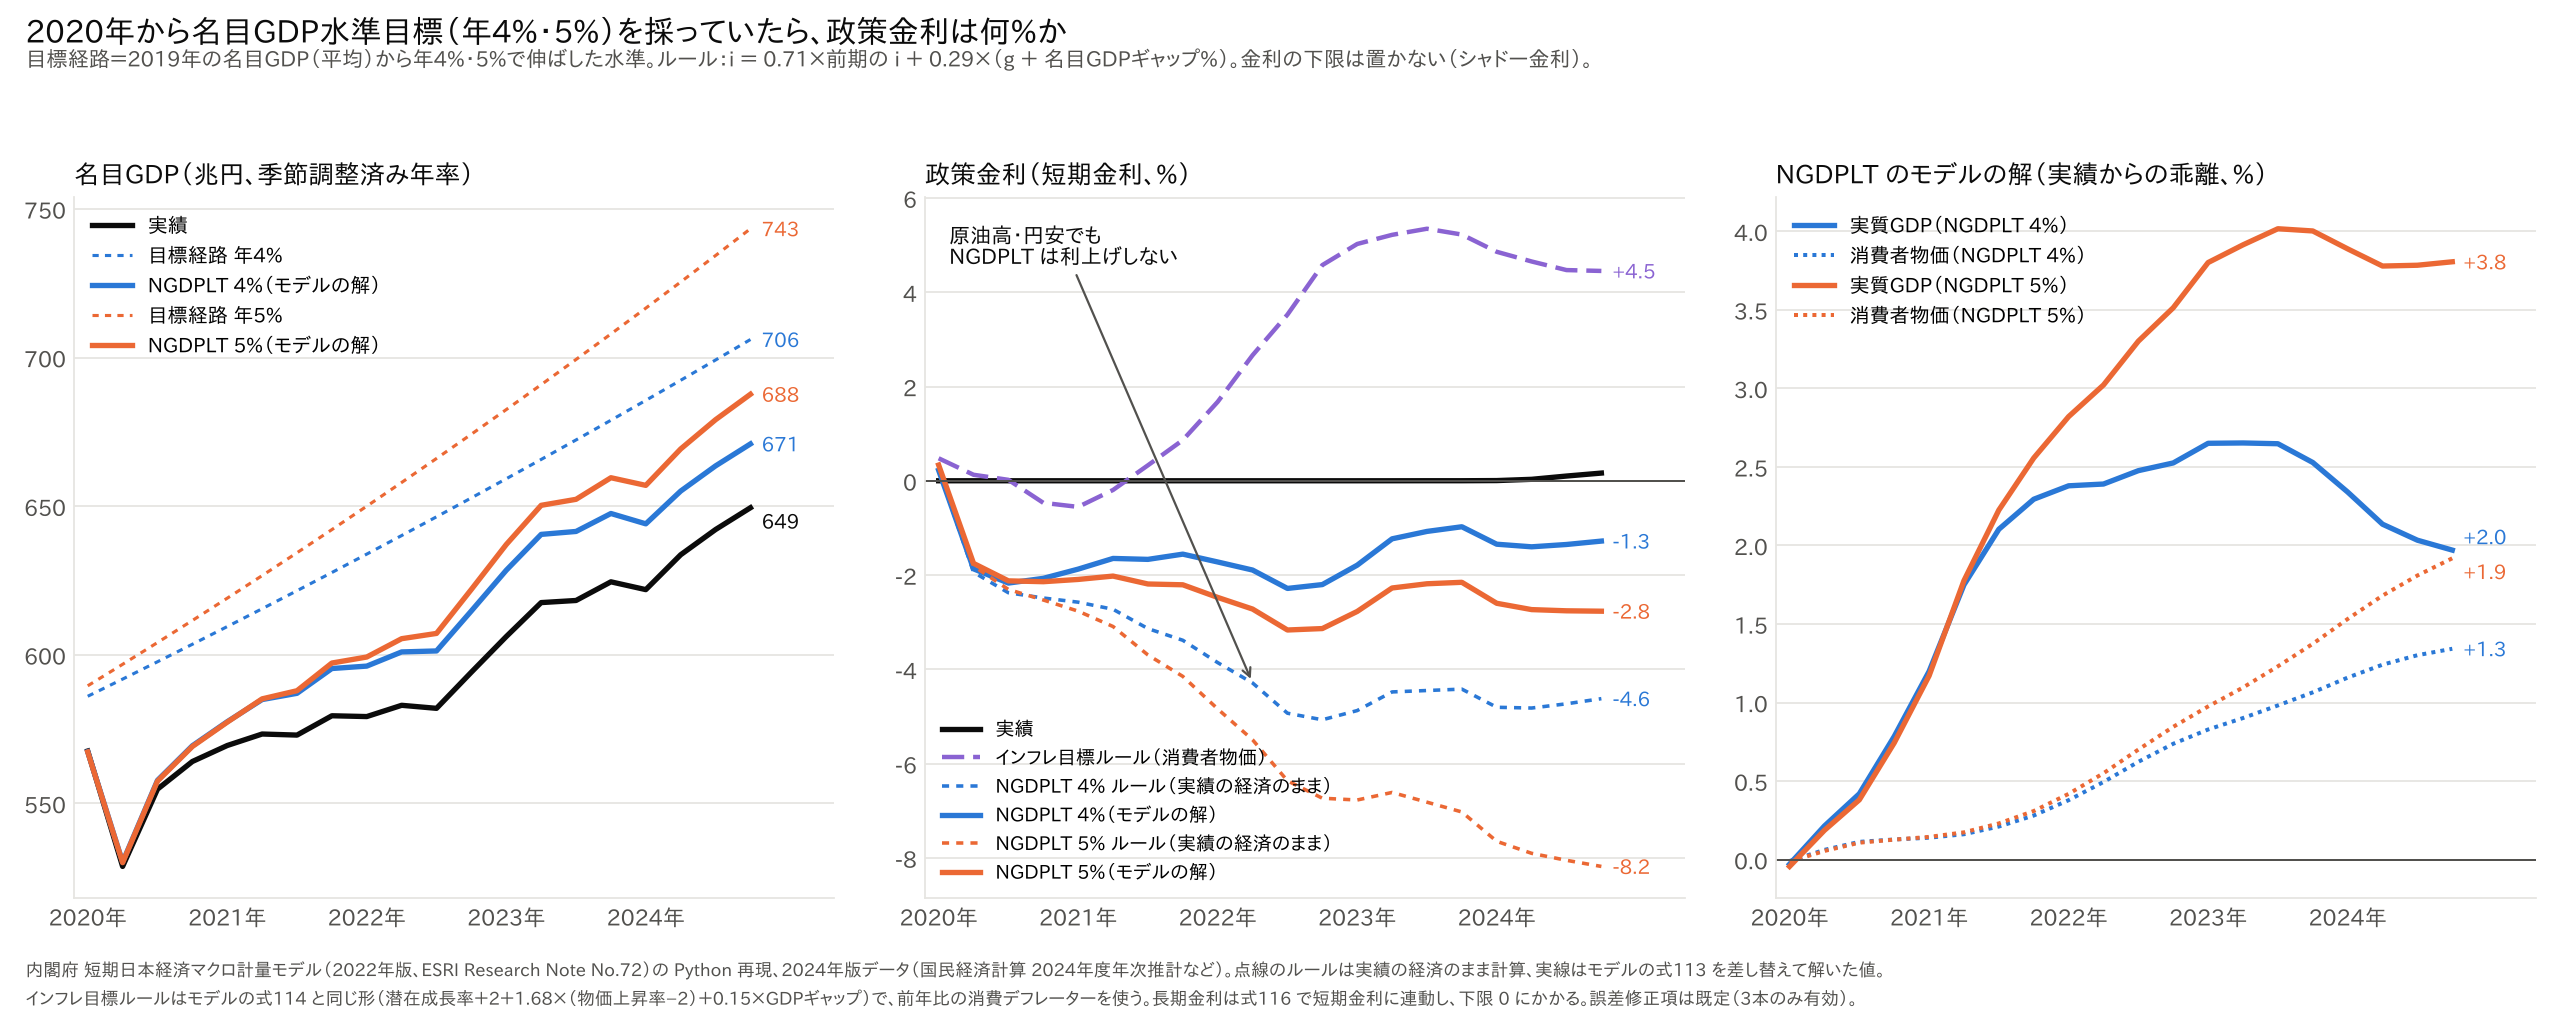
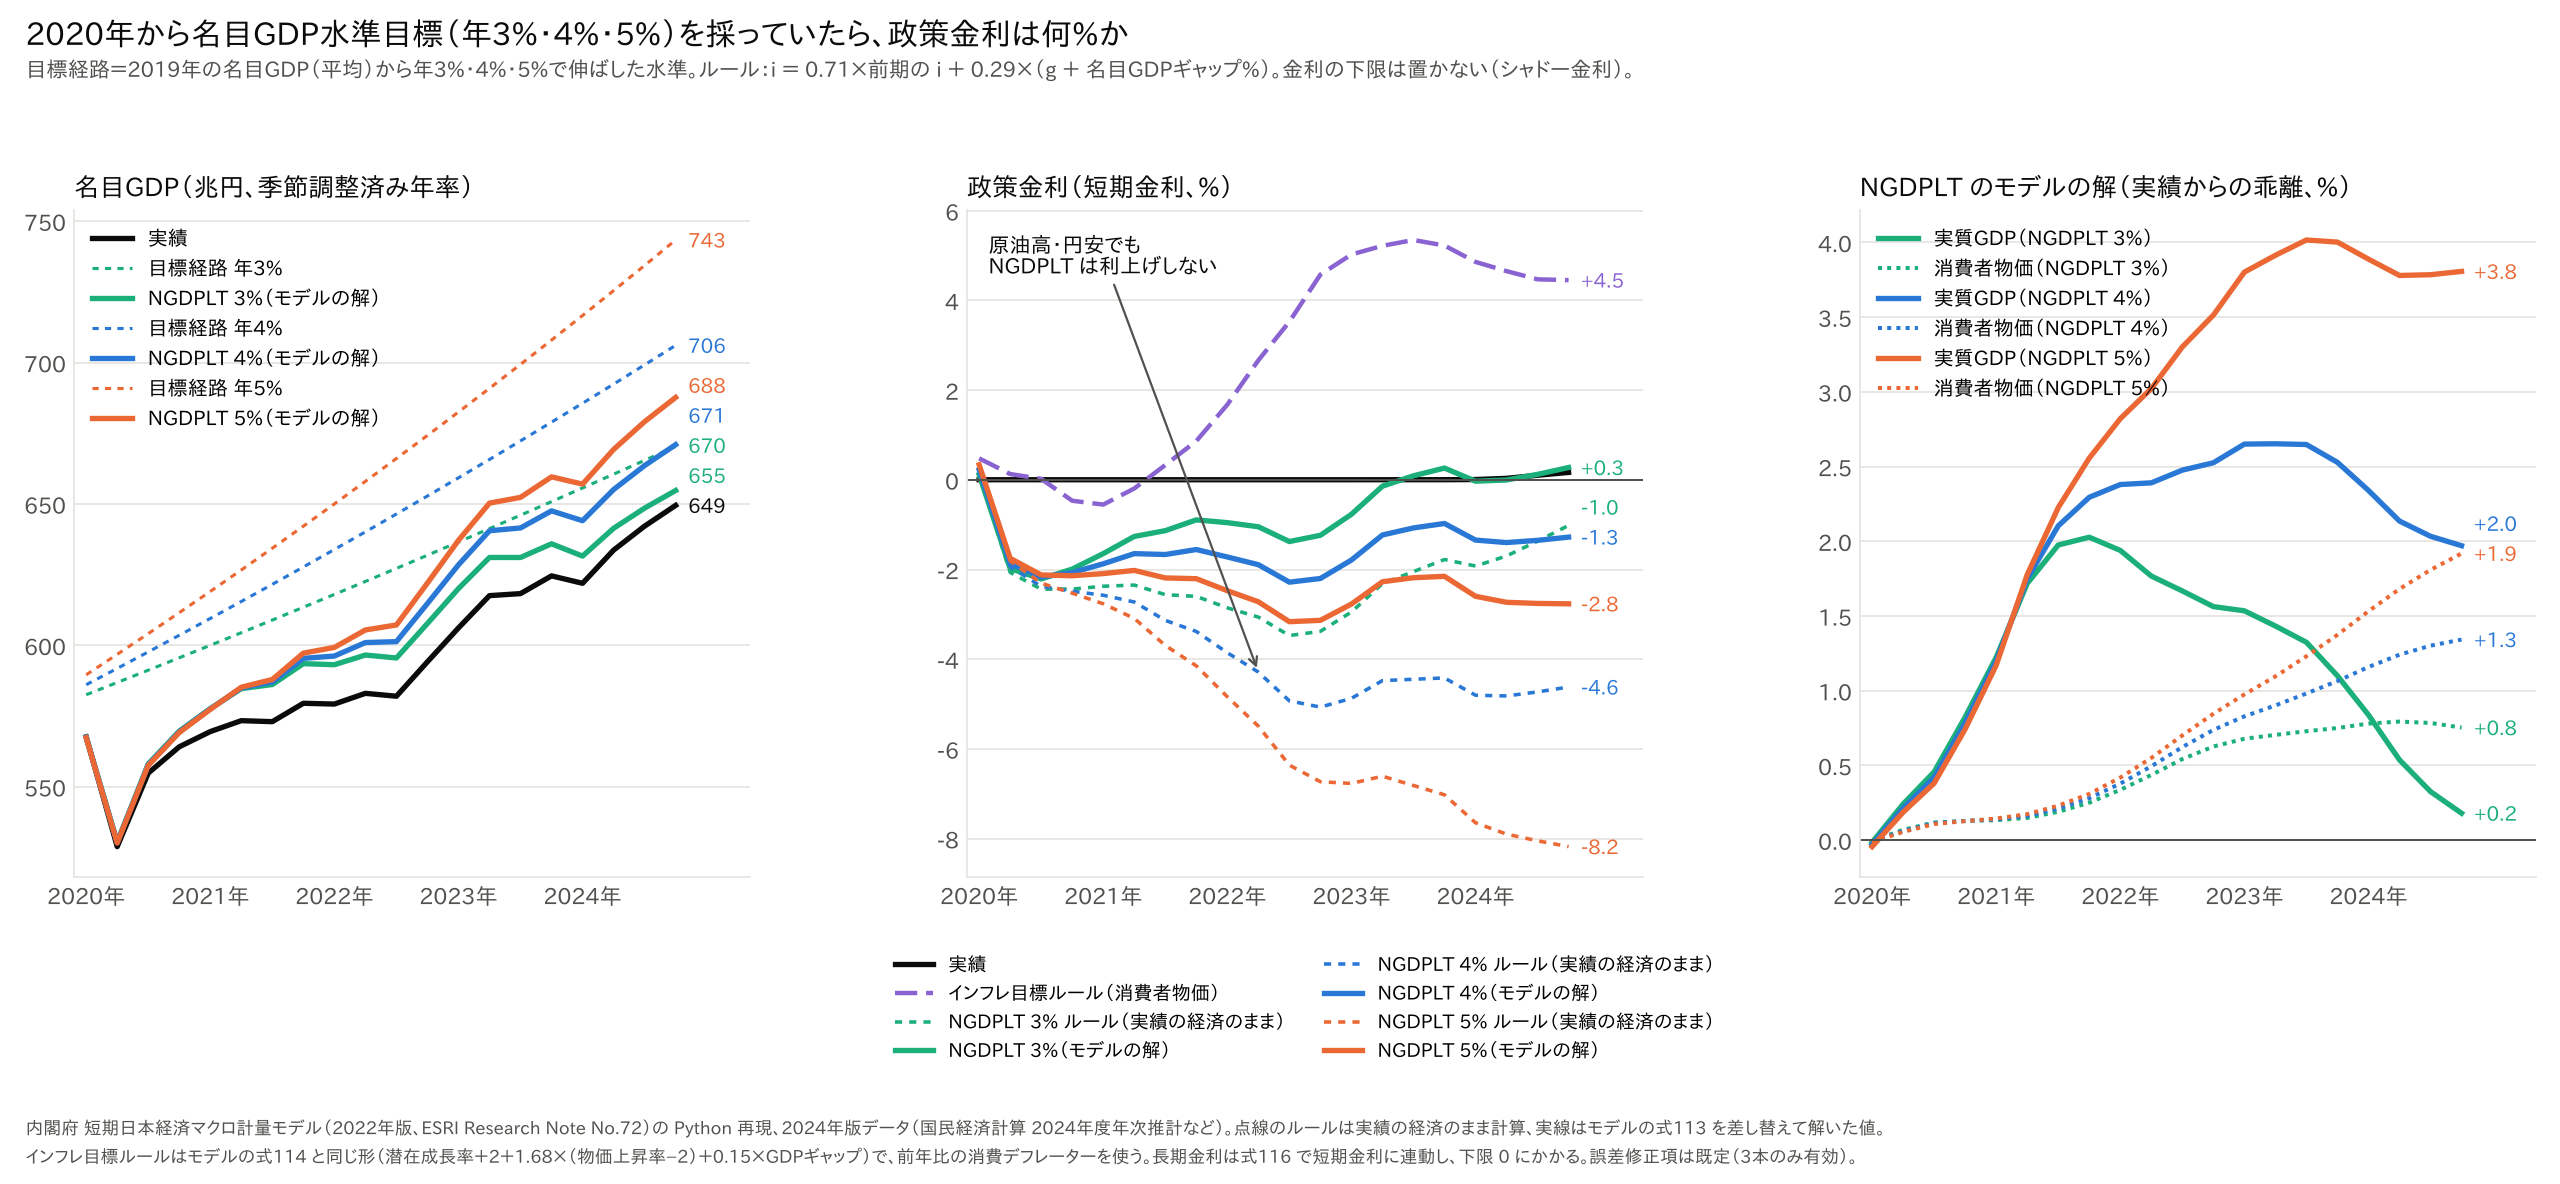
名目GDP水準目標に年3%の目標を追加
Claude-Session: https://claude.ai/code/session_013ePjEtRrzquBdW4qa3Y9LD

diff --git a/src/plot_ngdplt.py b/src/plot_ngdplt.py
@@ -1,6 +1,6 @@
 """名目GDP水準目標（NGDPLT）シナリオ（experiment_ngdplt.py の結果）の図.
 
-左: 名目GDP（実績、目標経路 4%・5%、NGDPLT をモデルに組み込んだ解）
+左: 名目GDP（実績、目標経路 3%・4%・5%、NGDPLT をモデルに組み込んだ解）
 中: 政策金利（実績、ルールが示すシャドー金利、モデルに組み込んだ解、比較のインフレ目標ルール）
 右: モデルに組み込んだ解の実質GDP・消費デフレーター（実績からの乖離）
 
@@ -25,18 +25,30 @@ def main() -> None:
     d = pd.read_csv(OUT / "experiment_ngdplt.csv", index_col=0)
     plt.rcParams.update({"font.family": FONT, "font.size": 10, "axes.edgecolor": GRID, "axes.labelcolor": INK2,
                          "xtick.color": INK2, "ytick.color": INK2, "axes.unicode_minus": False})
-    fig, axes = plt.subplots(1, 3, figsize=(16, 6.4))
+    fig, axes = plt.subplots(1, 3, figsize=(16, 7.4))
     fig.patch.set_facecolor("white")
     x = np.arange(len(d))
 
+    pending = {}  # 軸ごとの端のラベル（重ならないよう最後にまとめて置く）
+
     def end_label(ax, y, c, dy=0, fmt="{:+.1f}"):
-        ax.annotate(fmt.format(y.iloc[-1]), (x[-1], y.iloc[-1]), xytext=(5, dy), textcoords="offset points",
-                    color=c, fontsize=9, va="center")
+        pending.setdefault(ax, []).append((float(y.iloc[-1]), fmt.format(y.iloc[-1]), c))
+
+    def place_labels():
+        for ax, items in pending.items():
+            lo, hi = ax.get_ylim()
+            gap = 0.045 * (hi - lo)
+            items = sorted(items)
+            ys = [v for v, _, _ in items]
+            for k in range(1, len(ys)):
+                ys[k] = max(ys[k], ys[k - 1] + gap)
+            for (v, t, c), yy in zip(items, ys):
+                ax.annotate(t, (x[-1], v), xytext=(x[-1] + 0.4, yy), textcoords="data", color=c, fontsize=9, va="center")
 
     # 左: 名目GDP
     ax = axes[0]
     ax.plot(x, d["名目GDP 実績（兆円）"], color=INK, lw=2.4, label="実績")
-    for g, c in (("4", BLUE), ("5", ORANGE)):
+    for g, c in (("3", AQUA), ("4", BLUE), ("5", ORANGE)):
         ax.plot(x, d[f"名目GDP 目標{g}%（兆円）"], color=c, lw=1.4, ls=(0, (2, 2)), label=f"目標経路 年{g}%")
         ax.plot(x, d[f"モデル NGDPLT{g}% 名目GDP（兆円）"], color=c, lw=2.4, label=f"NGDPLT {g}%（モデルの解）")
         end_label(ax, d[f"名目GDP 目標{g}%（兆円）"], c, fmt="{:.0f}")
@@ -50,7 +62,7 @@ def main() -> None:
     ax.plot(x, d["短期金利 実績（%）"], color=INK, lw=2.4, label="実績")
     ax.plot(x, d["インフレ目標（消費デフレーター）のシャドー金利（%）"], color=VIOLET, lw=2.0, ls=(0, (5, 2)),
             label="インフレ目標ルール（消費者物価）")
-    for g, c in (("4", BLUE), ("5", ORANGE)):
+    for g, c in (("3", AQUA), ("4", BLUE), ("5", ORANGE)):
         ax.plot(x, d[f"NGDPLT{g}% φ1 シャドー金利（%）"], color=c, lw=1.6, ls=(0, (2, 2)), label=f"NGDPLT {g}% ルール（実績の経済のまま）")
         ax.plot(x, d[f"モデル NGDPLT{g}% 短期金利（%）"], color=c, lw=2.4, label=f"NGDPLT {g}%（モデルの解）")
         end_label(ax, d[f"NGDPLT{g}% φ1 シャドー金利（%）"], c)
@@ -58,23 +70,24 @@ def main() -> None:
     end_label(ax, d["インフレ目標（消費デフレーター）のシャドー金利（%）"], VIOLET)
     ax.axhline(0, color=INK2, lw=0.9)
     ax.set_title("政策金利（短期金利、%）", loc="left", fontsize=11.5, color=INK)
-    ax.legend(loc="lower left", frameon=False, fontsize=8.6)
+    ax.legend(loc="upper center", bbox_to_anchor=(0.5, -0.09), frameon=False, fontsize=8.6, ncol=2)
     i22 = list(d.index).index("2022Q2")
     ax.annotate("原油高・円安でも\nNGDPLT は利上げしない", (i22, d["NGDPLT4% φ1 シャドー金利（%）"].iloc[i22]),
                 xytext=(0.3, 4.6), fontsize=9.5, color=INK, arrowprops=dict(arrowstyle="->", color=INK2, lw=1))
 
     # 右: 実質GDP・消費デフレーター
     ax = axes[2]
-    for g, c in (("4", BLUE), ("5", ORANGE)):
+    for g, c in (("3", AQUA), ("4", BLUE), ("5", ORANGE)):
         ax.plot(x, d[f"モデル NGDPLT{g}% 実質GDP（基準解比 %）"], color=c, lw=2.4, label=f"実質GDP（NGDPLT {g}%）")
         ax.plot(x, d[f"モデル NGDPLT{g}% 消費デフレーター（基準解比 %）"], color=c, lw=1.8, ls=(0, (1, 1.3)),
                 label=f"消費者物価（NGDPLT {g}%）")
-        end_label(ax, d[f"モデル NGDPLT{g}% 実質GDP（基準解比 %）"], c, dy=6 if g == "4" else 0)
-        end_label(ax, d[f"モデル NGDPLT{g}% 消費デフレーター（基準解比 %）"], c, dy=-6 if g == "5" else 0)
+        end_label(ax, d[f"モデル NGDPLT{g}% 実質GDP（基準解比 %）"], c, dy={"3": 0, "4": 6, "5": 0}[g])
+        end_label(ax, d[f"モデル NGDPLT{g}% 消費デフレーター（基準解比 %）"], c, dy={"3": -4, "4": 0, "5": -6}[g])
     ax.axhline(0, color=INK2, lw=0.9)
     ax.set_title("NGDPLT のモデルの解（実績からの乖離、%）", loc="left", fontsize=11.5, color=INK)
     ax.legend(loc="upper left", frameon=False, fontsize=9)
 
+    place_labels()
     for ax in axes:
         ax.set_xticks(x[::4])
         ax.set_xticklabels([f"{s[:4]}年" for s in d.index[::4]])
@@ -84,16 +97,16 @@ def main() -> None:
         ax.tick_params(length=0)
         for sp in ("top", "right"):
             ax.spines[sp].set_visible(False)
-    fig.suptitle("2020年から名目GDP水準目標（年4%・5%）を採っていたら、政策金利は何%か", x=0.01, ha="left", fontsize=14,
+    fig.suptitle("2020年から名目GDP水準目標（年3%・4%・5%）を採っていたら、政策金利は何%か", x=0.01, ha="left", fontsize=14,
                  color=INK, fontweight="bold", y=0.985)
-    fig.text(0.01, 0.935, "目標経路＝2019年の名目GDP（平均）から年4%・5%で伸ばした水準。ルール：i ＝ 0.71×前期の i ＋ 0.29×（g ＋ 名目GDPギャップ%）。"
+    fig.text(0.01, 0.935, "目標経路＝2019年の名目GDP（平均）から年3%・4%・5%で伸ばした水準。ルール：i ＝ 0.71×前期の i ＋ 0.29×（g ＋ 名目GDPギャップ%）。"
              "金利の下限は置かない（シャドー金利）。", fontsize=9.5, color=INK2)
     note = ("内閣府 短期日本経済マクロ計量モデル（2022年版、ESRI Research Note No.72）の Python 再現、2024年版データ（国民経済計算 2024年度年次推計など）。"
             "点線のルールは実績の経済のまま計算、実線はモデルの式113 を差し替えて解いた値。\n"
             "インフレ目標ルールはモデルの式114 と同じ形（潜在成長率＋2＋1.68×（物価上昇率−2）＋0.15×GDPギャップ）で、前年比の消費デフレーターを使う。"
             "長期金利は式116 で短期金利に連動し、下限 0 にかかる。誤差修正項は既定（3本のみ有効）。")
     fig.text(0.01, 0.012, note, fontsize=8, color=INK2, linespacing=1.55, va="bottom")
-    fig.tight_layout(rect=(0, 0.07, 1, 0.92), w_pad=2.2)
+    fig.tight_layout(rect=(0, 0.06, 1, 0.92), w_pad=2.2)
     fig.savefig(OUT / "ngdplt.png", dpi=160, facecolor="white")
     print(OUT / "ngdplt.png")
 

diff --git a/src/experiment_ngdplt.py b/src/experiment_ngdplt.py
@@ -1,10 +1,10 @@
-"""2020年から名目GDP水準目標（NGDPLT、年4%・5%）を採っていたら、政策金利はどう推移したか.
+"""2020年から名目GDP水準目標（NGDPLT、年3%・4%・5%）を採っていたら、政策金利はどう推移したか.
 
 名目GDP水準目標は、名目GDP の「水準」を年 g% で伸びる目標経路に乗せる金融政策。
 原油高のような供給ショックでは、物価が上がる分だけ実質の落ち込みを許すので、インフレ目標のように
 物価に反応して利上げし、実質産出をさらに犠牲にすることを避けられる、とされる。
 
-データは2024年版（2020年基準SNA、2024Q4まで）。目標経路は、2019年の名目GDP の平均（2019年央）を起点に年 g% で伸ばす。
+データは2024年版（2020年基準SNA、2024Q4まで）。目標経路は、2019年の名目GDP の平均（2019年央）を起点に年 g% で伸ばす（g = 3, 4, 5）。
 
 1. ルールが示す政策金利（実績の経済のまま、フィードバックなし）
    モデルのテイラー・ルール（式114）と同じ形（前期の金利の重み 0.71）に、目標を当てはめる。成長率と物価上昇率は前年比。
@@ -38,7 +38,7 @@ from experiment_fx_passthrough import load  # noqa: E402
 OUT = ROOT / "output"
 FNAME, START, END = "model_data_v2024.csv", "2020Q1", "2024Q4"
 RHO = 0.71
-TARGETS = (4.0, 5.0)
+TARGETS = (3.0, 4.0, 5.0)
 PHIS = (1.0, 0.5)
 
 

diff --git a/README.md b/README.md
@@ -82,7 +82,7 @@ ESRI_VINTAGE=2024 python src/simulate.py                                # 論文
 | `src/check_transcription.py` | 論文の各式の係数・定数と `model.py` の機械照合 |
 | `src/experiment_fidelity.py` | 印刷どおり・別解釈・誤植修正前の式で解いた一致度（`docs/fidelity.md`、結果は `output/experiment_fidelity.csv`） |
 | `src/experiment_proxy_levels.py` | 代用系列（`HH`・`PLAND`）の水準・傾きを歪めて解き直し、乗数が変わらないことを確認（Issue #3、結果は `output/experiment_proxy_levels.csv`） |
-| `src/experiment_ngdplt.py` | 2020年から名目GDP水準目標（年4%・5%）を採っていた場合の政策金利（ルールの当てはめとモデルの解、比較のインフレ目標ルール。結果は `output/experiment_ngdplt*.csv`、図は `src/plot_ngdplt.py` → `output/ngdplt.png`） |
+| `src/experiment_ngdplt.py` | 2020年から名目GDP水準目標（年3%・4%・5%）を採っていた場合の政策金利（ルールの当てはめとモデルの解、比較のインフレ目標ルール。結果は `output/experiment_ngdplt*.csv`、図は `src/plot_ngdplt.py` → `output/ngdplt.png`） |
 | `src/experiment_rgb7_fx200.py` | 長期金利7%・ドル円200円シナリオ（円安のみ・金利のみ・両方、2024年版。結果は `output/experiment_rgb7_fx200*.csv`、図は `src/plot_rgb7_fx200.py` → `output/rgb7_fx200.png`） |
 | `src/experiment_ctax_revenue.py` | 名目GDP1%規模の消費税減税と給付金の税目別の税収（法人所得税・個人所得税・消費税）と財源の戻り、2021年版と2024年版（結果は `output/experiment_ctax_revenue*.csv`、図は `src/plot_ctax_revenue.py` → `output/ctax_revenue.png`） |
 | `src/experiment_expost_2022.py` | モデルと2022〜24年の実績の違い: 誤差項を平時の平均にした事後シミュレーション、式ごとの要因分解、誤差項の z 値（結果は `output/experiment_expost_2022*.csv`、図は `src/plot_expost_2022.py` → `output/expost_2022.png`） |
@@ -488,10 +488,10 @@ note 記事「[交易損失は賃金を下げるのか](https://github.com/p72/n
 - 個人企業所得の式（91）は長期金利の2期差に反応するので、金利を一度に6%pt以上上げると、1年目に個人企業所得が大きく減る。その分は雇用者報酬に移る。
 - 金利上昇による資産価格の下落、金融機関の損失、信用不安などはモデルにない。
 
-### 応用例: 2020年から名目GDP水準目標（NGDPLT、年4%・5%）を採っていたら
+### 応用例: 2020年から名目GDP水準目標（NGDPLT、年3%・4%・5%）を採っていたら
 
 `src/experiment_ngdplt.py`、`src/plot_ngdplt.py`。2024年版データで計算する。
-- **目標経路**：2019年の名目GDP（平均）から、年4%・5%で伸ばした水準。
+- **目標経路**：2019年の名目GDP（平均）から、年3%・4%・5%で伸ばした水準。
 - **ルール**：i = 0.71 × 前期の i + 0.29 × (g + 名目GDPギャップ%)。形はモデルの式114 と同じで、金利の下限は置かない（シャドー金利）。
 - **計算は2通り**
   - 実績の経済のままルールに当てはめる。
@@ -501,6 +501,8 @@ note 記事「[交易損失は賃金を下げるのか](https://github.com/p72/n
 | 年平均の政策金利（%） | 2020 | 2021 | 2022 | 2023 | 2024 |
 |---|---|---|---|---|---|
 | 実績 | 0.00 | 0.00 | 0.00 | 0.00 | 0.08 |
+| NGDPLT 3%（実績の経済のまま） | −1.7 | −2.5 | −3.2 | −2.3 | −1.5 |
+| NGDPLT 3%（モデルの解） | −1.5 | −1.2 | −1.2 | −0.1 | 0.1 |
 | NGDPLT 4%（実績の経済のまま） | −1.6 | −3.0 | −4.5 | −4.6 | −4.7 |
 | NGDPLT 4%（モデルの解） | −1.5 | −1.7 | −2.0 | −1.3 | −1.3 |
 | NGDPLT 5%（実績の経済のまま） | −1.6 | −3.4 | −5.9 | −6.8 | −7.9 |
@@ -510,7 +512,8 @@ note 記事「[交易損失は賃金を下げるのか](https://github.com/p72/n
 ![名目GDP水準目標](output/ngdplt.png)
 
 **読み方**
-- 実績の名目GDPは、2019年から年約2%しか伸びていない。年4%・5%の目標経路を2024年に7〜14%下回り、NGDPLT はずっとマイナス金利を求める。
+- 実績の名目GDPは、2019年から年約2%しか伸びていない。2024年に、年3%の目標経路を約4%、年4%・5%の経路を9〜14%下回り、NGDPLT はマイナス金利を求める。
+- 年3%目標なら、ずれは2023年以降に縮み、モデルに組み込んだ解では、政策金利は2023年後半から0〜0.3%とほぼゼロに戻る（実績の経済のままなら2024年も−1〜−2%）。
 - 2022〜23年の原油高・円安で、消費者物価に反応するインフレ目標ルールなら4〜5%まで利上げする局面でも、NGDPLT は利上げしない。名目GDP が目標を下回っているため。
 - モデルに組み込むと、−1.3〜−2.9%の短期金利で名目GDP は2024年に約22〜36兆円増え、実質GDPは+2〜4%増える。それでも目標経路には届かない。
 
@@ -587,6 +590,7 @@ Issue #1〜#3、#17〜#19 はすべて閉じた。
 | #28 | 食料品減税 vs 給付金の試算に `--vintage 2021` を追加。名目GDP1%規模の消費税減税の税目別の税収（法人税収）と note 用の記事 |
 | #29 | 長期金利7%・ドル円200円シナリオ |
 | #29 | 名目GDP水準目標（NGDPLT、2020年〜年4%・5%）の政策金利シミュレーション |
+| #30 | NGDPLT に年3%の目標を追加 |
 
 ### 追加した検証スクリプト
 
